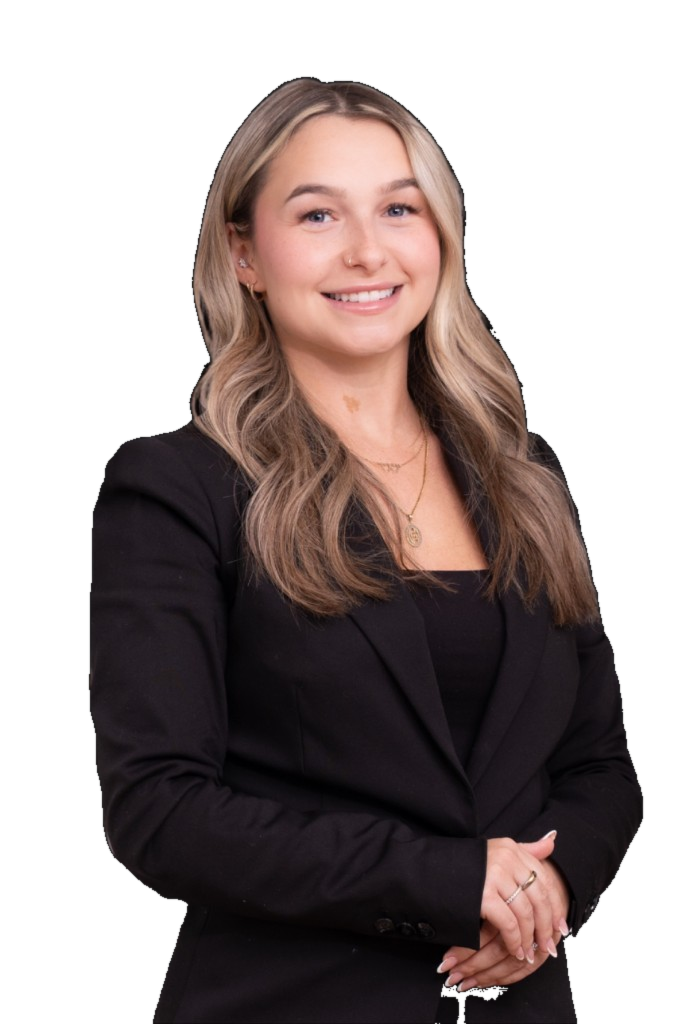
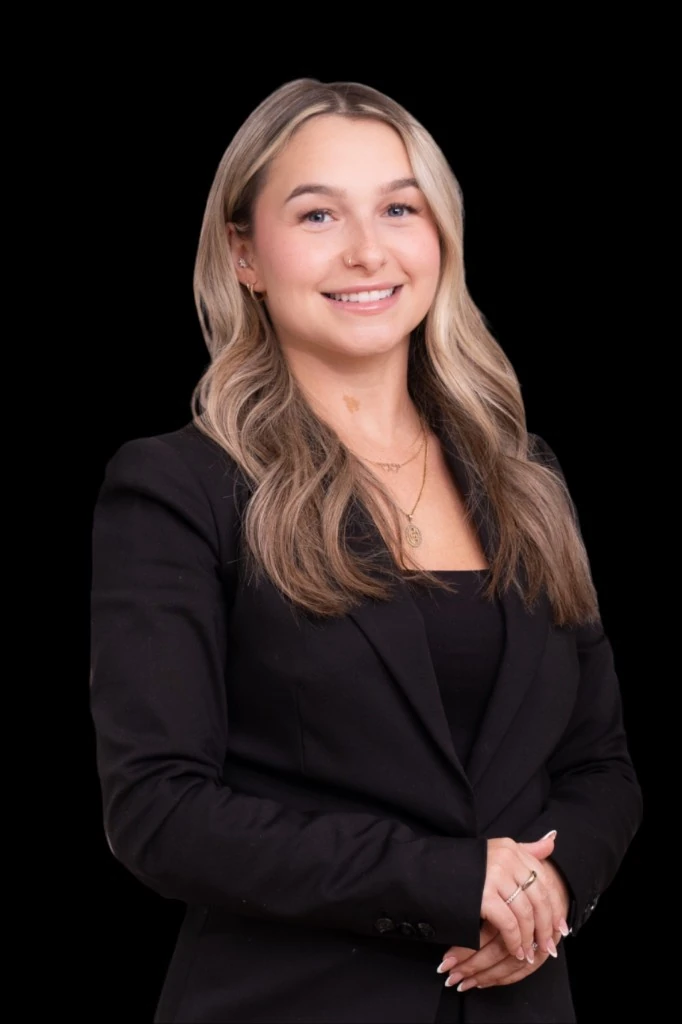
push

diff --git a/index.html b/index.html
@@ -429,8 +429,8 @@
 
             <div class="flex flex-col lg:flex-row items-center gap-12 lg:gap-20 mb-32 mt-32">
                 <div class="w-full lg:w-1/2 relative reveal-up">
-                    <div class="aspect-[3/4] overflow-hidden relative bg-white flex items-end justify-center">
-                        <img src="images/pamela.webp" alt="Pamela Coulombe" class="w-full h-full object-contain object-bottom">
+                    <div class="aspect-[3/4] overflow-hidden relative bg-black flex items-center justify-center">
+                        <img src="images/pamela.webp" alt="Pamela Coulombe" class="w-full h-full object-contain">
                     </div>
                 </div>
 
@@ -456,8 +456,8 @@
 
             <div class="flex flex-col lg:flex-row-reverse items-center gap-12 lg:gap-20">
                 <div class="w-full lg:w-1/2 relative reveal-up">
-                    <div class="aspect-[3/4] overflow-hidden relative bg-white flex items-end justify-center">
-                        <img src="images/joelle.webp" alt="Joëlle Jacques" class="w-full h-full object-contain object-bottom">
+                    <div class="aspect-[3/4] overflow-hidden relative bg-black flex items-center justify-center">
+                        <img src="images/joelle.webp" alt="Joëlle Jacques" class="w-full h-full object-contain">
                     </div>
                 </div>
 

diff --git a/hypotheque.html b/hypotheque.html
@@ -213,7 +213,7 @@
                     </div>
                 </div>
                 <div class="flex flex-col sm:flex-row gap-6 items-center sm:items-start reveal-up">
-                    <div class="w-32 h-32 rounded-full overflow-hidden shrink-0 bg-white">
+                    <div class="w-32 h-32 rounded-full overflow-hidden shrink-0 bg-black">
                         <img src="images/pamela.webp" alt="Pamela Coulombe" class="w-full h-full object-cover object-top grayscale hover:grayscale-0 transition duration-700">
                     </div>
                     <div class="text-center sm:text-left">
@@ -224,7 +224,7 @@
                     </div>
                 </div>
                 <div class="flex flex-col sm:flex-row gap-6 items-center sm:items-start reveal-up" style="transition-delay:150ms">
-                    <div class="w-32 h-32 rounded-full overflow-hidden shrink-0 bg-white">
+                    <div class="w-32 h-32 rounded-full overflow-hidden shrink-0 bg-black">
                         <img src="images/joelle.webp" alt="Joëlle Jacques" class="w-full h-full object-cover object-top grayscale hover:grayscale-0 transition duration-700">
                     </div>
                     <div class="text-center sm:text-left">

diff --git a/rejoindre-mc-equipe.html b/rejoindre-mc-equipe.html
@@ -153,7 +153,7 @@
                     </div>
                 </div>
                 <div class="flex flex-col sm:flex-row gap-6 items-center sm:items-start reveal-up">
-                    <div class="w-32 h-32 rounded-full overflow-hidden shrink-0 bg-white">
+                    <div class="w-32 h-32 rounded-full overflow-hidden shrink-0 bg-black">
                         <img src="images/pamela.webp" alt="Pamela Coulombe" class="w-full h-full object-cover object-top grayscale hover:grayscale-0 transition duration-700">
                     </div>
                     <div class="text-center sm:text-left">
@@ -164,7 +164,7 @@
                     </div>
                 </div>
                 <div class="flex flex-col sm:flex-row gap-6 items-center sm:items-start reveal-up" style="transition-delay:150ms">
-                    <div class="w-32 h-32 rounded-full overflow-hidden shrink-0 bg-white">
+                    <div class="w-32 h-32 rounded-full overflow-hidden shrink-0 bg-black">
                         <img src="images/joelle.webp" alt="Joëlle Jacques" class="w-full h-full object-cover object-top grayscale hover:grayscale-0 transition duration-700">
                     </div>
                     <div class="text-center sm:text-left">

diff --git a/joelle.html b/joelle.html
@@ -127,8 +127,8 @@
         </div>
 
         <div class="w-full lg:w-1/2 reveal-up">
-            <div class="aspect-[3/4] overflow-hidden rounded-xl relative bg-mc-linen flex items-end justify-center">
-                <img src="images/joelle.webp" alt="Joëlle Jacques" class="w-full h-full object-contain object-bottom">
+            <div class="aspect-[3/4] overflow-hidden rounded-xl relative bg-black flex items-center justify-center">
+                <img src="images/joelle.webp" alt="Joëlle Jacques" class="w-full h-full object-contain">
             </div>
         </div>
     </section>

diff --git a/pamela.html b/pamela.html
@@ -127,8 +127,8 @@
         </div>
 
         <div class="w-full lg:w-1/2 reveal-up">
-            <div class="aspect-[3/4] overflow-hidden rounded-xl relative bg-mc-linen flex items-end justify-center">
-                <img src="images/pamela.webp" alt="Pamela Coulombe" class="w-full h-full object-contain object-bottom">
+            <div class="aspect-[3/4] overflow-hidden rounded-xl relative bg-black flex items-center justify-center">
+                <img src="images/pamela.webp" alt="Pamela Coulombe" class="w-full h-full object-contain">
             </div>
         </div>
     </section>
